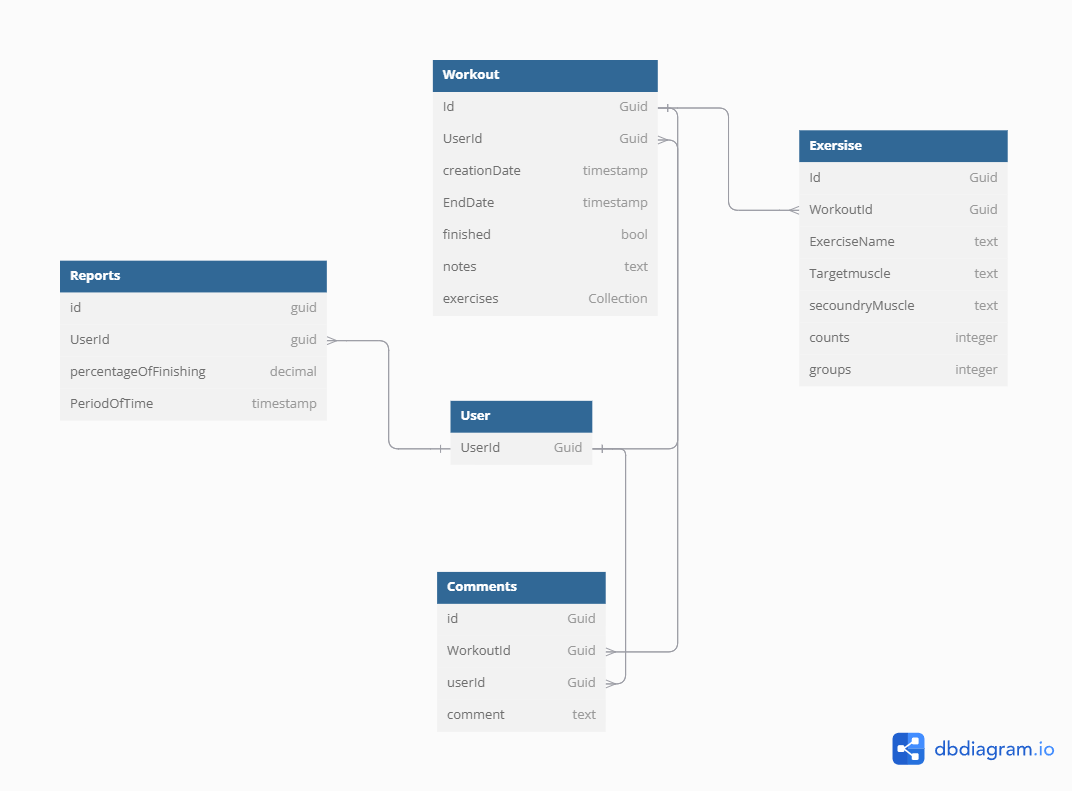
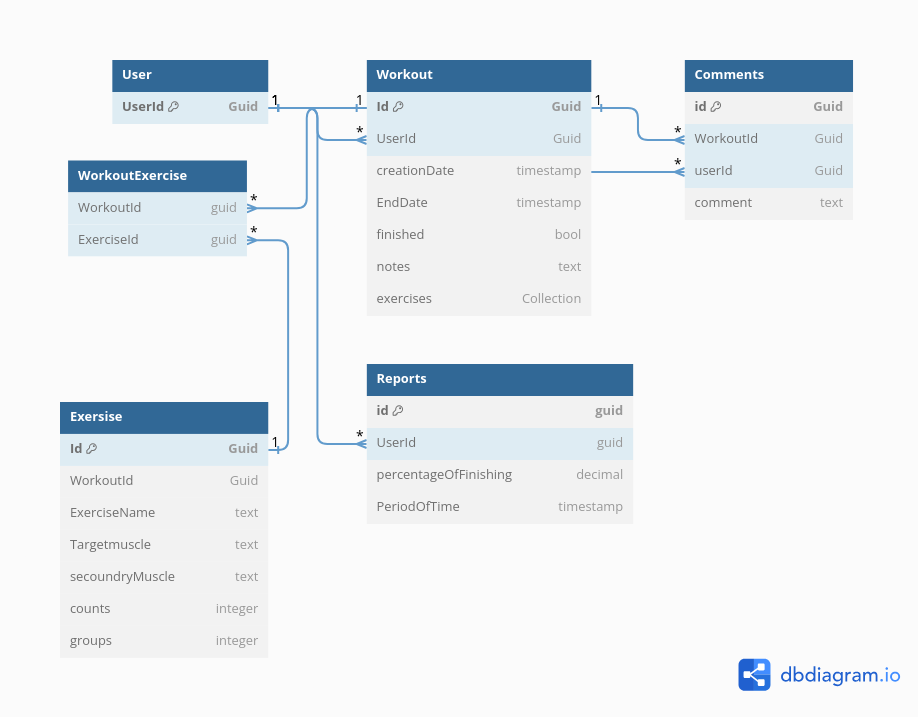
Update on database

diff --git a/src/Workout/Migrations/20250130123050_WorkoutExercise.cs b/src/Workout/Migrations/20250130123050_WorkoutExercise.cs
@@ -1,0 +1,72 @@
+using System;
+using Microsoft.EntityFrameworkCore.Migrations;
+
+#nullable disable
+
+namespace Workout.Migrations
+{
+    /// <inheritdoc />
+    public partial class WorkoutExercise : Migration
+    {
+        /// <inheritdoc />
+        protected override void Up(MigrationBuilder migrationBuilder)
+        {
+            migrationBuilder.DropForeignKey(
+                name: "FK_Exercises_WorkOuts_WorkoutId",
+                table: "Exercises");
+
+            migrationBuilder.DropIndex(
+                name: "IX_Exercises_WorkoutId",
+                table: "Exercises");
+
+            migrationBuilder.CreateTable(
+                name: "WorkoutExercises",
+                columns: table => new
+                {
+                    ExerciseId = table.Column<Guid>(type: "uniqueidentifier", nullable: false),
+                    WorkoutId = table.Column<Guid>(type: "uniqueidentifier", nullable: false)
+                },
+                constraints: table =>
+                {
+                    table.PrimaryKey("PK_WorkoutExercises", x => new { x.ExerciseId, x.WorkoutId });
+                    table.ForeignKey(
+                        name: "FK_WorkoutExercises_Exercises_ExerciseId",
+                        column: x => x.ExerciseId,
+                        principalTable: "Exercises",
+                        principalColumn: "Id",
+                        onDelete: ReferentialAction.Cascade);
+                    table.ForeignKey(
+                        name: "FK_WorkoutExercises_WorkOuts_WorkoutId",
+                        column: x => x.WorkoutId,
+                        principalTable: "WorkOuts",
+                        principalColumn: "Id",
+                        onDelete: ReferentialAction.Cascade);
+                });
+
+            migrationBuilder.CreateIndex(
+                name: "IX_WorkoutExercises_WorkoutId",
+                table: "WorkoutExercises",
+                column: "WorkoutId");
+        }
+
+        /// <inheritdoc />
+        protected override void Down(MigrationBuilder migrationBuilder)
+        {
+            migrationBuilder.DropTable(
+                name: "WorkoutExercises");
+
+            migrationBuilder.CreateIndex(
+                name: "IX_Exercises_WorkoutId",
+                table: "Exercises",
+                column: "WorkoutId");
+
+            migrationBuilder.AddForeignKey(
+                name: "FK_Exercises_WorkOuts_WorkoutId",
+                table: "Exercises",
+                column: "WorkoutId",
+                principalTable: "WorkOuts",
+                principalColumn: "Id",
+                onDelete: ReferentialAction.Cascade);
+        }
+    }
+}

diff --git a/src/Workout/Data/AppDbContext.cs b/src/Workout/Data/AppDbContext.cs
@@ -14,6 +14,10 @@ namespace Workout.Data
             .ToTable("AspNetUsers", t => t.ExcludeFromMigrations())
             .HasKey(x => x.Id);
 
+            modelBuilder.Entity<WorkoutExercise>(we => 
+            we.HasKey(we => new { we.ExerciseId, we.WorkoutId }
+            ));
+
             modelBuilder.Entity<User>()
             .HasMany(b => b.workOut)
             .WithOne(x=> x.user)
@@ -23,17 +27,21 @@ namespace Workout.Data
             .HasMany(b => b.Comments)
             .WithOne(x => x.workOut)
             .HasForeignKey(y => y.WorkoutId);
-            
-            modelBuilder.Entity<WorkOut>()
-            .HasMany(b => b.Exercises)
-            .WithOne(x=> x.workOut)
-            .HasForeignKey(y => y.WorkoutId);
 
             modelBuilder.Entity<User>()
             .HasMany(b => b.Comments)
             .WithOne(x=> x.User)
             .HasForeignKey(y => y.UserId);
             
+            modelBuilder.Entity<WorkoutExercise>()
+            .HasOne(ts => ts.Exercise)
+            .WithMany(tr => tr.WorkoutExercises)
+            .HasForeignKey(ts => ts.ExerciseId);
+
+            modelBuilder.Entity<WorkoutExercise>()
+            .HasOne(ts => ts.Workout)
+            .WithMany(tr => tr.WorkoutExercises)
+            .HasForeignKey(ts => ts.WorkoutId);
         }
 
         public AppDbContext(DbContextOptions<AppDbContext> options) : base(options) { }
@@ -42,5 +50,6 @@ namespace Workout.Data
         public DbSet<WorkOut> WorkOuts { get; set; }
         public DbSet<Comment> Comments { get; set; }
         public DbSet<User> Users { get; set; }
+        public DbSet<WorkoutExercise> WorkoutExercises { get; set; }
     }
 }

diff --git a/src/Workout/Migrations/20250130123050_WorkoutExercise.Designer.cs b/src/Workout/Migrations/20250130123050_WorkoutExercise.Designer.cs
@@ -3,6 +3,7 @@ using System;
 using Microsoft.EntityFrameworkCore;
 using Microsoft.EntityFrameworkCore.Infrastructure;
 using Microsoft.EntityFrameworkCore.Metadata;
+using Microsoft.EntityFrameworkCore.Migrations;
 using Microsoft.EntityFrameworkCore.Storage.ValueConversion;
 using Workout.Data;
 
@@ -11,9 +12,11 @@ using Workout.Data;
 namespace Workout.Migrations
 {
     [DbContext(typeof(AppDbContext))]
-    partial class AppDbContextModelSnapshot : ModelSnapshot
+    [Migration("20250130123050_WorkoutExercise")]
+    partial class WorkoutExercise
     {
-        protected override void BuildModel(ModelBuilder modelBuilder)
+        /// <inheritdoc />
+        protected override void BuildTargetModel(ModelBuilder modelBuilder)
         {
 #pragma warning disable 612, 618
             modelBuilder

diff --git a/src/Workout/Models/Exercise.cs b/src/Workout/Models/Exercise.cs
@@ -7,14 +7,14 @@ namespace Workout.Models
 {
     public class Exercise
     {
-        public Guid Id { get; set; }
+        public Guid Id { get; set; } = Guid.NewGuid();
         public Guid WorkoutId { get; set; }
         public string ExerciseName { get; set; }
         public string TargetMuscle { get; set; }
         public string SecondaryMuscle { get; set; }
         public int Counts { get; set; }
         public int Groups { get; set; }
-        public WorkOut workOut { get; set; }
+        public ICollection<WorkoutExercise> WorkoutExercises { get; set; }
         public User user { get; set; }
     }
 }

diff --git a/src/Workout/Models/WorkOut.cs b/src/Workout/Models/WorkOut.cs
@@ -16,7 +16,7 @@ namespace Workout.Models
         public bool Finished { get; set; } = false;
         public string Notes { get; set; }
         public User user { get; set; }
-        public ICollection<Exercise> Exercises { get; set; }
+        public ICollection<WorkoutExercise> WorkoutExercises { get; set; }
         public ICollection<Comment> Comments { get; set; }
     }
 }

diff --git a/src/Workout/Models/WorkoutExercise.cs b/src/Workout/Models/WorkoutExercise.cs
@@ -1,0 +1,11 @@
+using System;
+
+namespace Workout.Models;
+
+public class WorkoutExercise
+{
+    public Guid ExerciseId { get; set; }
+    public Exercise Exercise { get; set; }
+    public Guid WorkoutId { get; set; }
+    public WorkOut Workout { get; set; }
+}
